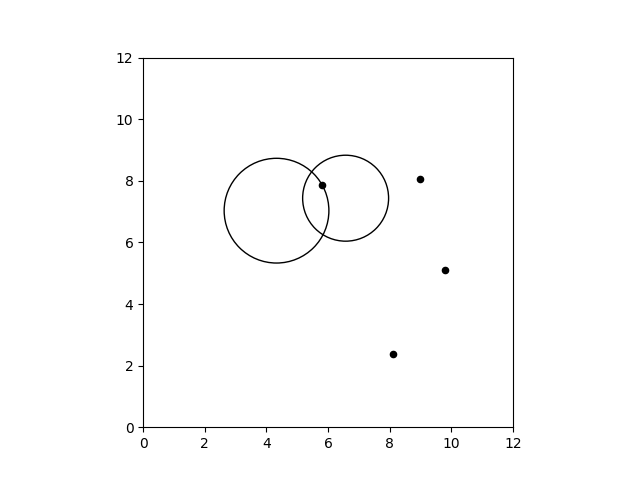
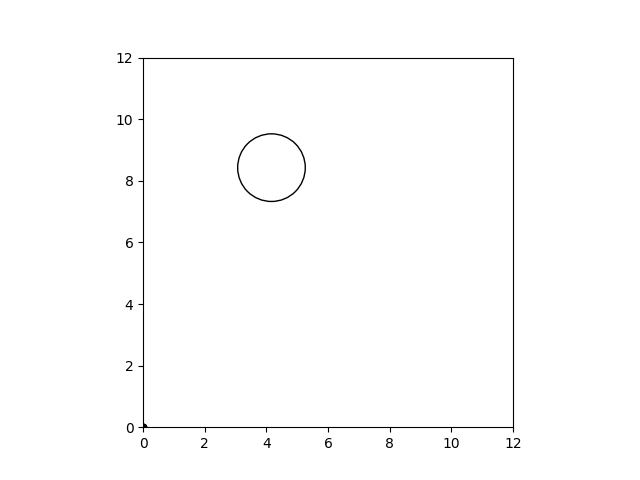
fix intersection logic

diff --git a/iterate.py b/iterate.py
@@ -62,16 +62,15 @@ def followsRules(circles, points):
 				out = False
 				break
 
+		counter = 0 # use counter rather than t/f bc circle should intersect itself
 		for circle2 in circles: # check that circles do not intersect
-			dist = (circle[0] - circle2[0]) ** 2 + (circle[1] - circle2[1]) ** 2
-			rad = (circle[2] + circle2[2]) ** 2;
-
-			smaller = min(circle[2], circle2[2])
-			larger = max(circle[2], circle2[2])
-
-			if (dist >= rad):
-				out = False
+			dist = ((circle[0]-circle2[0])**2 + (circle[1]-circle2[1])**2)**0.5
+			if dist <= circle[2] + circle2[2]:
+				counter += 1
+			if counter > 1:
+				print(circle, circle2)
 				print("Circles intersect")
+				out = False
 				break
 
 #			if math.sqrt(dist) + smaller <= larger:
@@ -137,8 +136,8 @@ while (count < numcircles) and (tracker < iterations): # time out if over some m
 
 	# generate circle
 	rad = np.random.uniform(1,2) # random circle radius
-	x = np.random.uniform(1,11)
-	y = np.random.uniform(1,11)
+	x = np.random.uniform(3,9)
+	y = np.random.uniform(3,9)
 
 	curr = np.array([x, y, rad])
 #	print("Current:", curr)
